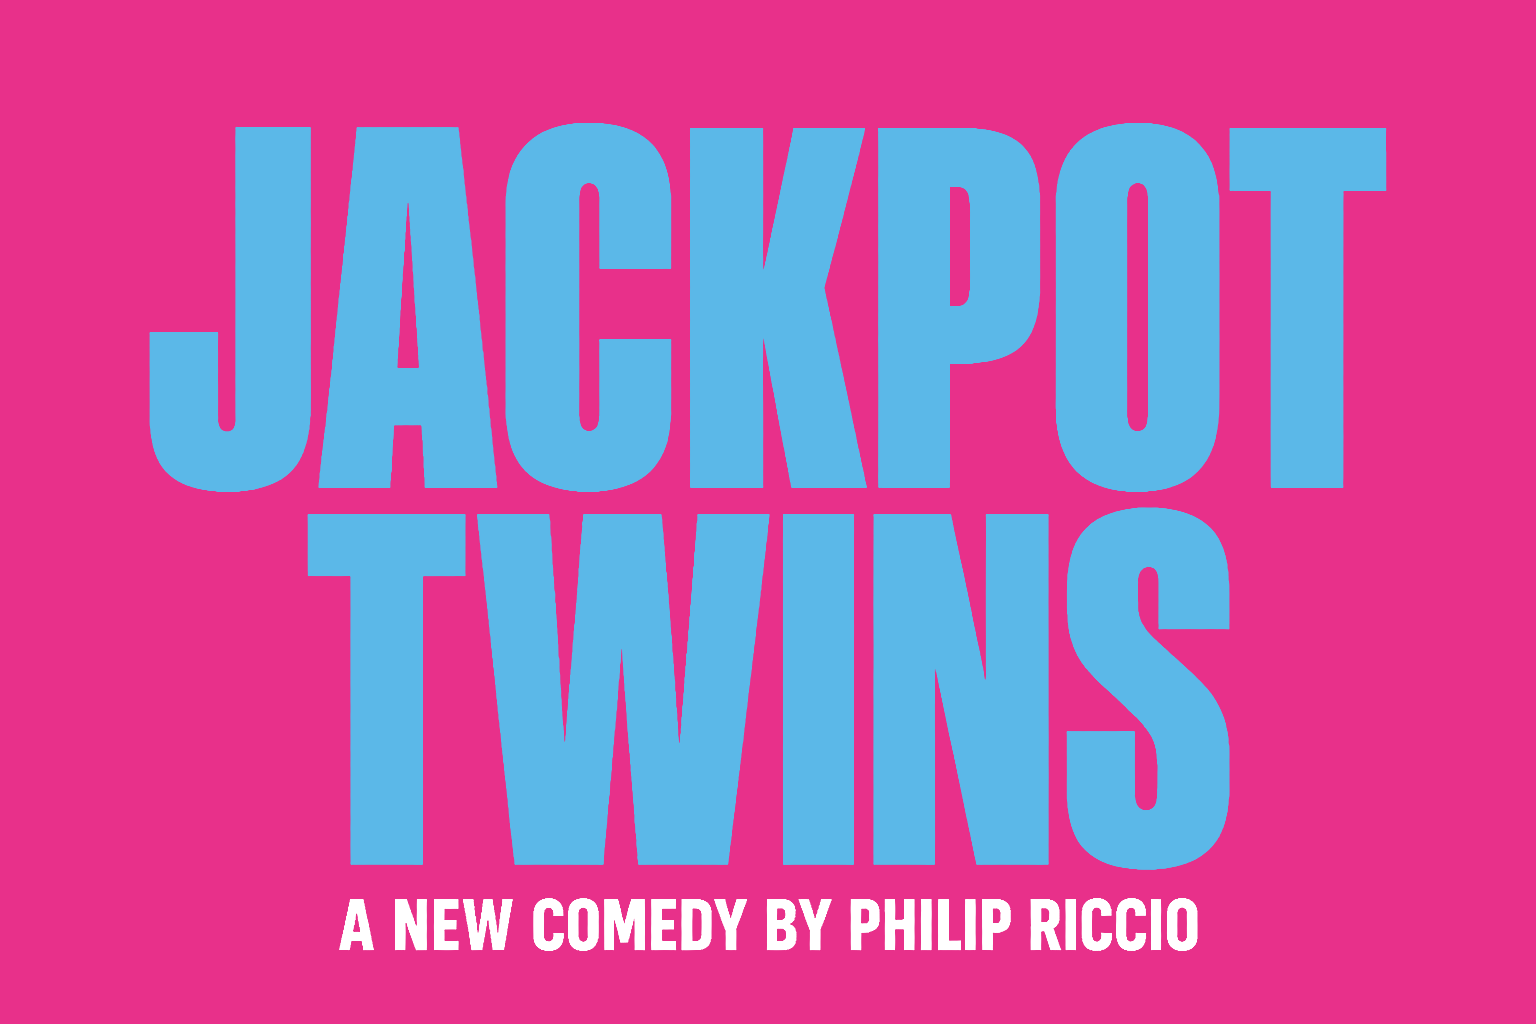
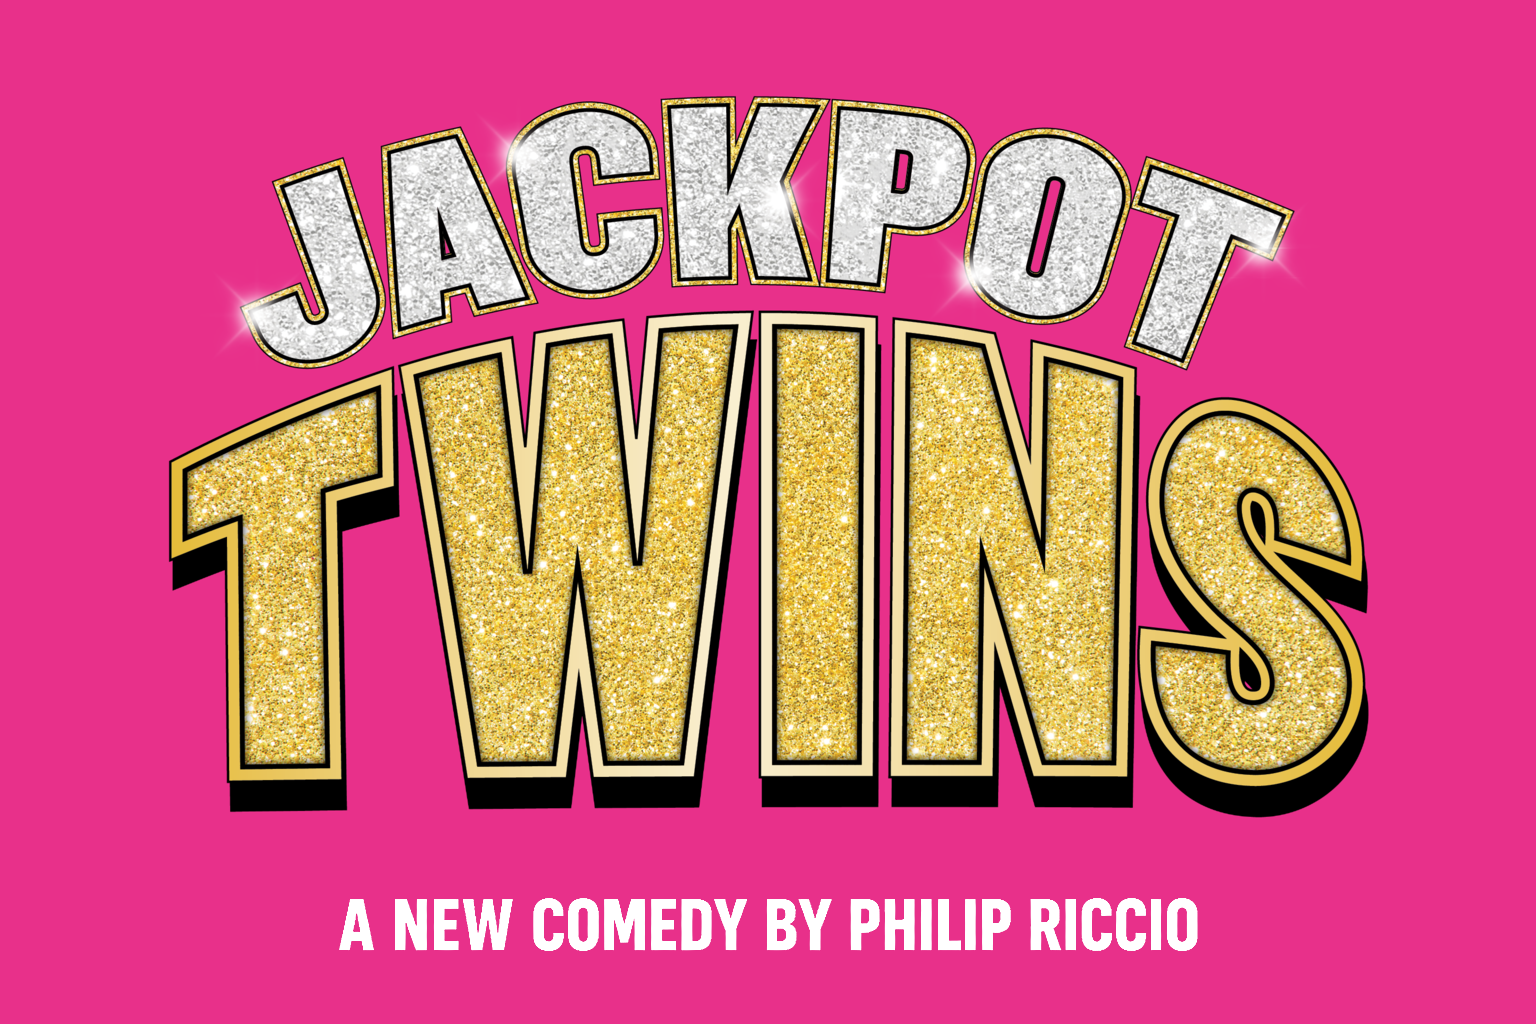
feat: apply approved Jackpot Twins title lockup

diff --git a/PROJECT.md b/PROJECT.md
@@ -67,3 +67,10 @@ Fixed responsive text wrapping in AnimatedQuotes component.
 - **Tickets messaging:** "Tickets are available now through an Off Mirvish Season Subscription. Or sign up to be the first to know when single tickets go on sale."
 - Interim Jackpot Twins key art is title-only on exact Plinko pink `#E8308A`; do not restore AI-generated people without Philip's direction.
 - Impact font for tagline overlay
+
+### Sep 10, 2026 — New Mirvish Title Lockup Release
+- Retrieved Otto Pierre's original transparent `jt-2026-logo-NEW.png` from the Mirvish SharePoint link in his email; verified it as a 2405×1518 RGBA image and preserved the untouched source in `projects/jackpot-twins/assets/`.
+- Rebuilt `public/images/jackpot-twins/title-card.png` on flat pink `#E8308A`, using Otto's silver-and-gold lockup and retaining the white `A NEW COMEDY BY PHILIP RICCIO` byline.
+- Production build passed. Desktop 1440×1000 and mobile 390×844 proof from the standalone production build showed the full title card uncropped with no horizontal overflow.
+- Local development remains affected by the repository's known parent-workspace Tailwind resolution issue; the production build is the reliable proof.
+- Philip approved the verified local release candidate for production deployment on Sep. 10.
